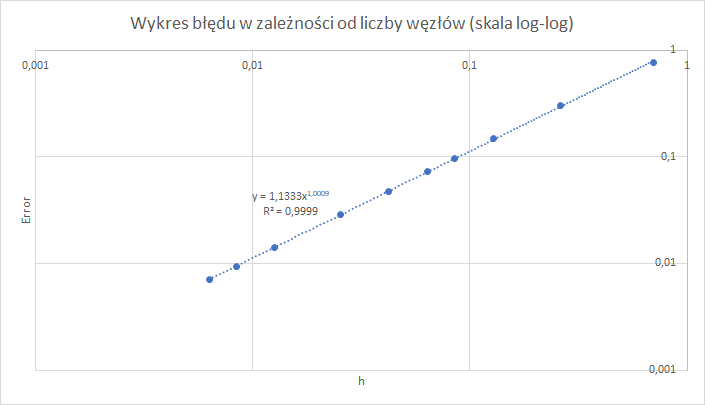
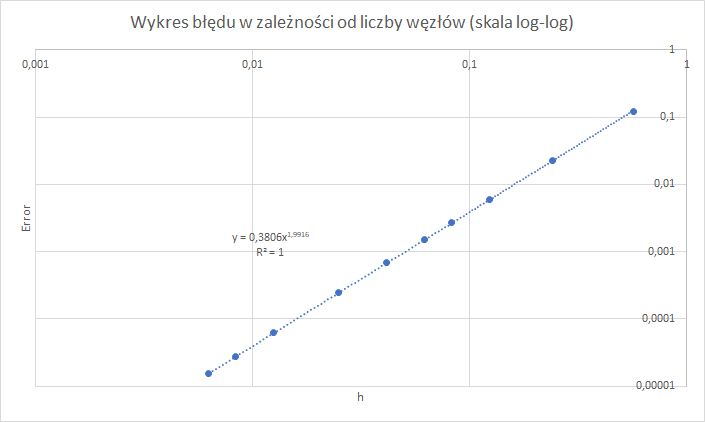
Add files via upload

diff --git a/Lab3/dirichlet.tex b/Lab3/dirichlet.tex
@@ -93,7 +93,7 @@ a)
 \NormalTok{a=}\FloatTok{0}\NormalTok{;}
 \NormalTok{b=}\FloatTok{2}\NormalTok{*}\BaseNTok{pi}\NormalTok{;}
 \NormalTok{n = input('Podaj liczbe węzłów: ');}
-\NormalTok{h = (b-a)/(n-}\FloatTok{1}\NormalTok{);}
+\NormalTok{h = (b-a)/(n+}\FloatTok{1}\NormalTok{);}
 \NormalTok{Ua = }\FloatTok{0}\NormalTok{;}
 \NormalTok{Ub = }\FloatTok{0}\NormalTok{;}
 \NormalTok{f = @(x) -}\FunctionTok{sin}\NormalTok{(x) - }\FloatTok{4}\NormalTok{*}\FunctionTok{sin}\NormalTok{(}\FloatTok{2}\NormalTok{*x);}
@@ -128,7 +128,7 @@ b)
 \NormalTok{a=}\FloatTok{0}\NormalTok{;}
 \NormalTok{b=}\FloatTok{1}\NormalTok{;}
 \NormalTok{n = input('Podaj liczbe węzłów: ');}
-\NormalTok{h = (b-a)/(n-}\FloatTok{1}\NormalTok{);}
+\NormalTok{h = (b-a)/(n+}\FloatTok{1}\NormalTok{);}
 \NormalTok{Ua = }\FloatTok{0}\NormalTok{;}
 \NormalTok{Ub = }\FloatTok{1}\NormalTok{;}
 \NormalTok{f = @(x) }\FloatTok{12}\NormalTok{*x;}

diff --git a/Lab3/lab_3_2.m b/Lab3/lab_3_2.m
@@ -3,7 +3,7 @@ clear, clc;
 a=0;
 b=1;
 n=1000;
-h = (b-a)/(n-1);
+h = (b-a)/(n+1)
 Ua = 0;
 Ub = 1;
 f = @(x) 12*x;
@@ -24,4 +24,4 @@ U = [Ua U' Ub];
 plot(x3, g(x3), x2, g(x2), 'ro')
 legend('Metoda Analityczna','Metoda Numeryczna',0);
 %error
-E = max(abs(g(x2) - U));
+E = max(abs(g(x2) - U))
